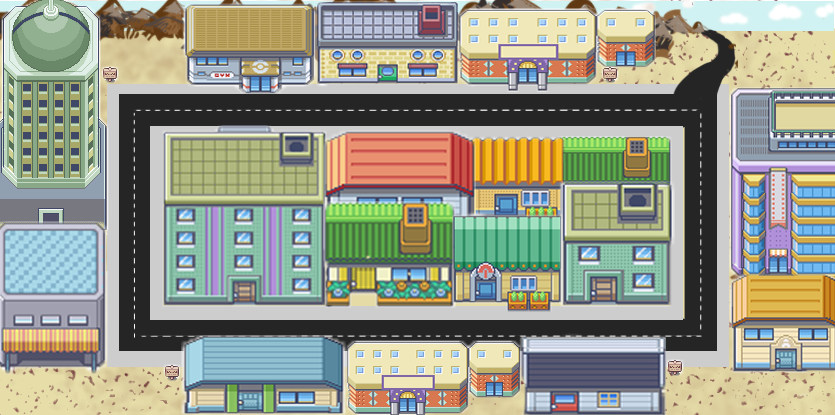
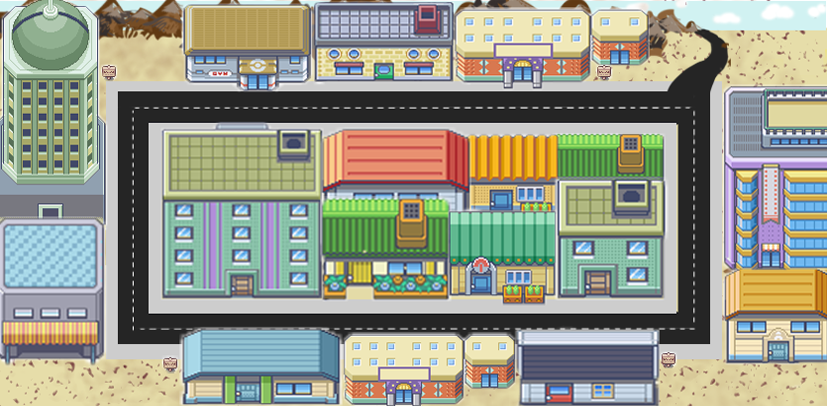
Cleared window, need to have it sized)

diff --git a/src/gui/MacroAnimationPanel.java b/src/gui/MacroAnimationPanel.java
@@ -1,5 +1,6 @@
 package gui;
 
+import java.awt.BorderLayout;
 import java.awt.Color;
 import java.awt.Graphics;
 import java.awt.Graphics2D;
@@ -17,43 +18,20 @@ import javax.swing.*;
 public class MacroAnimationPanel extends JPanel implements ActionListener {
 	
 	private final int WINDOWX = 835;
-    private final int WINDOWY = 415;
+    private final int WINDOWY = 406;
    
     private final int DELAY = 5;
 
     private List<Gui> guis = new ArrayList<Gui>();
-    //private ImageIcon background = new ImageIcon("/team02/src/gui/SIMCITY.jpg");
-    //private ImageIcon background;
-    private Image image;
-    
-    private BufferedImage background;
-    
-    private JLabel backgroundLabel;
-    private JPanel ImagePanel = new JPanel();
 
     public MacroAnimationPanel() {
     	setSize(WINDOWX, WINDOWY);
         setVisible(true);
-        setBackground(Color.darkGray);
-        
-        //background = new ImageIcon("team02/src/gui/SIMCITY.jpg");
-        //image = background.getImage();
-       
-        
-        try {
-        	background = ImageIO.read(this.getClass().getResource("SimCity.png"));
-        	backgroundLabel = new JLabel(new ImageIcon(background));
-        	ImagePanel.add(backgroundLabel);
-        }
-        catch(IOException e) {
-        	System.out.println("Error w/ Background");
-        }
-        
+        setBackground(Color.green);
         
     	Timer timer = new Timer(DELAY, this);
     	timer.start();
-    	
-    	add(ImagePanel);
+
     }
     
 	public void actionPerformed(ActionEvent e) {
@@ -66,12 +44,7 @@ public class MacroAnimationPanel extends JPanel implements ActionListener {
         //Clear the screen by painting a rectangle the size of the frame
         g2.setColor(getBackground());
         g2.fillRect(0, 0, getWidth(), getHeight());
-        
-        /*
-        if(image != null) {
-        	g2.drawImage(image, 0, 0, getWidth(), getHeight(), this);
-        }
-		*/
+		
         for(Gui gui : guis) {
             if (gui.isPresent()) {
                 gui.updatePosition();

diff --git a/src/gui/SimCityGui.java b/src/gui/SimCityGui.java
@@ -61,11 +61,11 @@ public class SimCityGui {
 		frame.setDefaultCloseOperation(JFrame.EXIT_ON_CLOSE);
 		
 		MacroAnimationPanel macroAnimationPanel = new MacroAnimationPanel();
-		macroAnimationPanel.setBounds(5, 5, 835, 400);
+		macroAnimationPanel.setBounds(5, 5, 827, 406);
 		frame.getContentPane().add(macroAnimationPanel);
 		
 		MicroAnimationPanel microAnimationPanel = new MicroAnimationPanel();
-		microAnimationPanel.setBounds(5, 425, 835, 400);
+		microAnimationPanel.setBounds(5, 425, 827, 406);
 		frame.getContentPane().add(microAnimationPanel);
 		SpringLayout springLayout = new SpringLayout();
 		springLayout.putConstraint(SpringLayout.NORTH, macroAnimationPanel, 10, SpringLayout.NORTH, frame.getContentPane());
